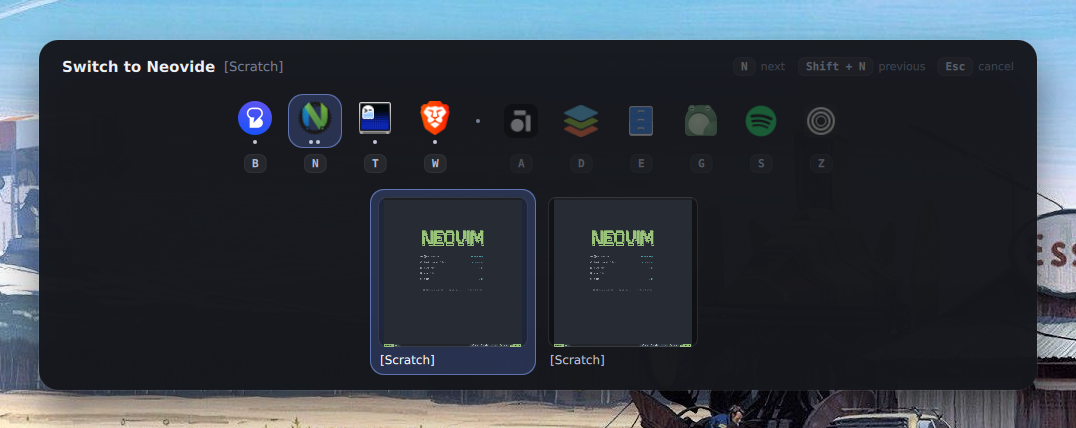
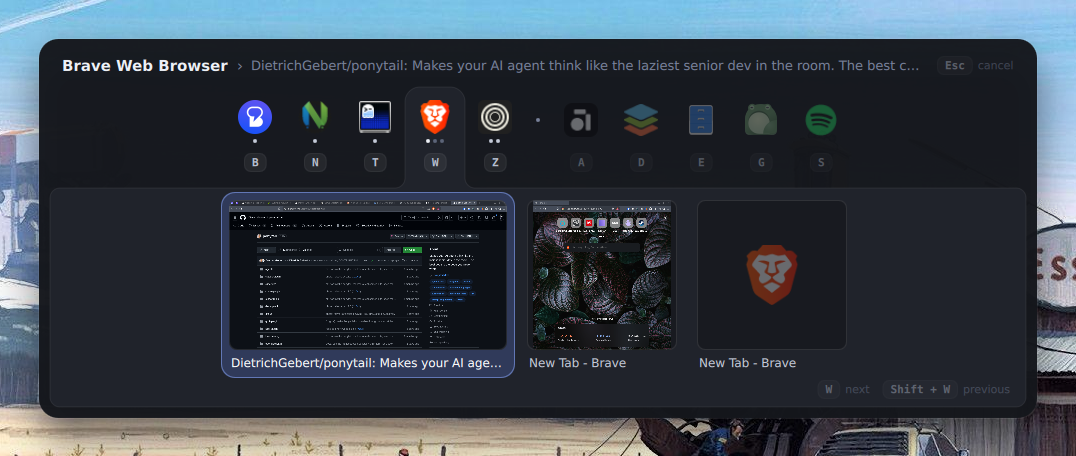
docs: show the switcher's tab and sheet

diff --git a/README.md b/README.md
@@ -24,17 +24,17 @@ along). Start the daemon once, for example from your Hyprland startup configurat
 exec-once = raisin daemon
 ```
 
-![The switcher open on Neovide: the applications in a bar, each with its key and a dot per open window, and Neovide's two windows below with the one it would switch to highlighted](docs/switcher.png)
+![The switcher open on Brave: the applications in a bar, each with its key and a dot per open window, Brave in a tab joined to the sheet of its three windows, and the one it would switch to highlighted](docs/switcher.png)
 
 It binds `Super` + a letter for every application in `[keys.apps]`, so adding another letter is a
 line of configuration — no compositor configuration to edit, and no restart.
 
 - Tap `Super` + the letter and the window is focused immediately, with nothing on screen.
 - Keep `Super` held a moment longer and the switcher appears: every application you gave a key to,
-  in a bar with its key under it and a dot per open window, and below that the windows of the one
-  you'd get, live, with the one you'd land on highlighted. Applications with nothing open sit
-  faintly at the end of the bar so their keys are still to hand; applications you haven't given a
-  key to are left out.
+  in a bar with its key under it and a dot per open window. The one you'd get sits in a tab, and
+  its windows, live, lie on the sheet the tab is part of, with the one you'd land on highlighted.
+  Applications with nothing open sit faintly at the end of the bar so their keys are still to
+  hand; applications you haven't given a key to are left out.
 - Press the same letter again to cycle through that application's windows, press another mapped
   letter to switch to that application instead, release `Super` to confirm, or press `Esc` to
   cancel.
